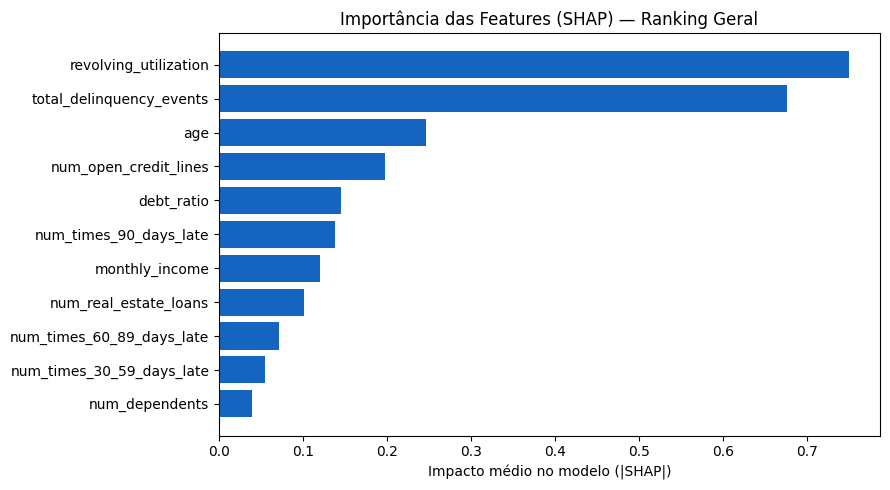
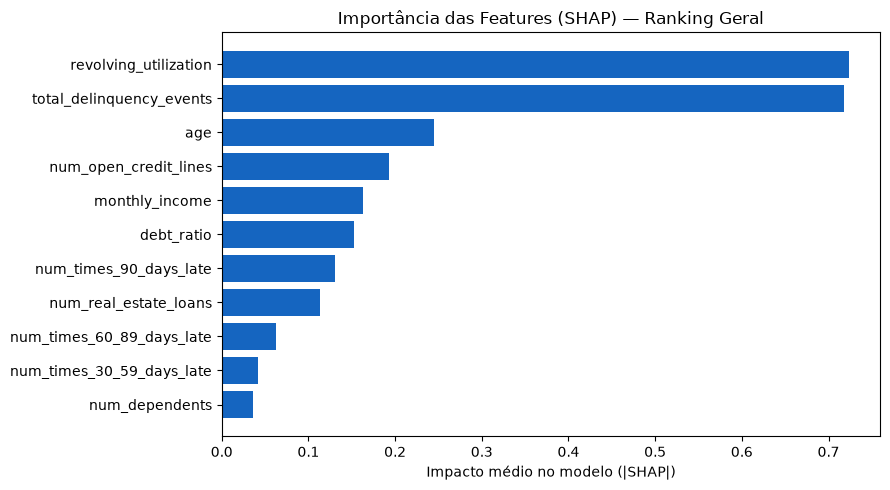
ajustes

diff --git a/README.md b/README.md
@@ -10,26 +10,31 @@
 
 | Indicador | Resultado |
 |---|---|
-| ROC-AUC do modelo principal (XGBoost) | **0,867** (meta ≥ 0,85) — regressão logística: 0,788 |
-| Régua de corte escolhida (threshold) | **0,45** |
-| Taxa de aprovação | 100% → **72,8%** |
-| Inadimplência da carteira aprovada | 6,68% → **1,75%** (queda de ~74%) |
-| Impacto financeiro líquido estimado | **+R$ 14,5 mi** (parâmetros ilustrativos) |
-| Monitoramento pós-deploy | Data drift sobre 101.503 clientes de scoring: 11 de 11 features estáveis (PSI máx. 0,0004). Concept drift: sem falso alarme sem drift e alerta a partir de 25% de intensidade (queda de AUC de 0,054) |
+| ROC-AUC do modelo principal (XGBoost) | **0,866** (meta ≥ 0,85) — regressão logística: 0,790 |
+| Régua de corte (threshold operacional) | **0,45**, a menor inadimplência com pelo menos 70% de aprovação |
+| Taxa de aprovação | 100% → **73,1%** |
+| Inadimplência da carteira aprovada | 6,68% → **1,76%** (queda de ~74%) |
+| Ganho sobre a regressão logística, na mesma aprovação | inadimplência da carteira de **3,08% → 1,76%** |
+| Impacto financeiro | o modelo se paga enquanto um calote custar mais de **4,0x** a margem de um bom cliente (+R$ 18,3 mi com os parâmetros ilustrativos) |
+| Viés por idade | um bom pagador de 18–30 anos é recusado **5,4x** mais que um de 60+ (44,5% contra 8,2%) |
+| Calibração | o score bruto prevê 31,5% de inadimplência média para 6,7% observada; calibrado, 6,7% |
+| Monitoramento | data drift sobre 101.503 clientes de scoring: 11 de 11 features estáveis. Concept drift: sem falso alarme sem mudança e alerta a partir de 25% de intensidade |
 
-**Em uma frase:** o risco é explicado principalmente pelo **comportamento** do cliente (uso do limite e histórico de atrasos), e um corte em 0,45 reduz a inadimplência em ~74% mantendo a aprovação acima do piso de 70%. O peso da idade no modelo exige checagem de viés antes de qualquer uso real.
+**Em uma frase:** o risco é explicado principalmente pelo **comportamento** do cliente (uso do limite e histórico de atrasos), e um corte em 0,45 reduz a inadimplência em ~74% mantendo 73% de aprovação; mas o modelo distribui seus erros de forma desigual entre faixas etárias, e o score precisa ser calibrado antes de ser usado para precificar.
+
+**Um modelo só.** Todos os números deste README vêm do mesmo modelo, o `@champion` (versão 1) registrado no Unity Catalog, avaliado no mesmo conjunto de teste de 37.500 clientes. Os notebooks de validação reproduzem o split de treino e confirmam que ele não mudou: a AUC recalculada precisa ser idêntica à registrada no run de treino, senão a execução é interrompida.
 
 ## Problema de negócio
-Uma instituição financeira precisa decidir, para cada solicitação de crédito, se aprova ou não a operação — e com qual taxa de juros. A decisão precisa ser rápida, consistente entre analistas e defensável em auditoria. O objetivo deste projeto é construir um score de probabilidade de inadimplência que sustente essa decisão de ponta a ponta: da ingestão do dado até um endpoint em produção monitorado.
+Uma instituição financeira precisa decidir, para cada solicitação de crédito, se aprova ou não a operação — e com qual taxa de juros. A decisão precisa ser rápida, consistente entre analistas e defensável em auditoria. O objetivo deste projeto é construir um score de probabilidade de inadimplência que sustente essa decisão de ponta a ponta: da ingestão do dado até a pontuação de clientes novos, com monitoramento.
 
 ## Base de dados
-- **Give Me Some Credit** (Kaggle) — https://www.kaggle.com/c/GiveMeSomeCredit — ~150.000 registros de clientes pessoa física, 10 variáveis explicativas (utilização de crédito rotativo, idade, número de dependentes, histórico de atraso, dívida/renda, entre outras) e variável-alvo `SeriousDlqin2yrs` (1 = inadimplência em 90+ dias nos próximos 2 anos)
-- **SCR.data** (BACEN, dados agregados) — https://dadosabertos.bcb.gov.br/dataset/scr_data — usado como referência externa para comparar a taxa de inadimplência do modelo com a média nacional por segmento, não como dado de treino
+- **Give Me Some Credit** (Kaggle) — https://www.kaggle.com/c/GiveMeSomeCredit — `cs-training.csv` com 150.000 clientes pessoa física, 10 variáveis explicativas e a variável-alvo `SeriousDlqin2yrs` (1 = inadimplência em 90+ dias nos próximos 2 anos); `cs-test.csv` com 101.503 clientes sem rótulo, usado como lote de produção
+- **SCR.data** (BACEN, dados agregados) — https://dadosabertos.bcb.gov.br/dataset/scr_data — referência externa para comparar a taxa de inadimplência do modelo com a média nacional por segmento, não como dado de treino
 
 ## Métrica-alvo
-- **Métrica primária:** AUC-ROC ≥ 0,85 no conjunto de teste (referência de mercado: soluções de topo da competição original Kaggle atingem ~0,86–0,87) — **atingida: 0,867**
-- **Métricas complementares:** KS-statistic (separação entre bons e maus pagadores), recall na classe inadimplente a um nível de precisão definido pelo negócio
-- **Métrica de negócio:** estimativa de redução de inadimplência em R$ comparando a política "com modelo" vs. a política atual (aprovação sem score)
+- **Métrica primária:** AUC-ROC ≥ 0,85 no conjunto de teste (referência de mercado: soluções de topo da competição original atingem ~0,86–0,87) — **atingida: 0,866**
+- **Métricas complementares:** KS-statistic (separação entre bons e maus pagadores) e recall na classe inadimplente a um nível de precisão definido pelo negócio
+- **Métrica de negócio:** redução de inadimplência e impacto em R$ da política "com modelo" contra "aprovar todos" e contra a regressão logística na mesma taxa de aprovação
 
 ## Hipóteses
 
@@ -40,20 +45,20 @@ As quatro hipóteses seguem uma progressão em duas camadas. Não faz sentido de
 
 | Hipótese | Enunciado | Como foi testada | Decisão que sustenta |
 |---|---|---|---|
-| **H1** — Utilização do rotativo | Clientes com maior `revolving_utilization` têm probabilidade significativamente maior de inadimplência, porque uso próximo do limite indica menor folga financeira | Relação entre o valor da feature e seu próprio SHAP value | Confiar ou não no modelo |
+| **H1** — Utilização do rotativo | Clientes com maior `revolving_utilization` têm probabilidade significativamente maior de inadimplência, porque uso próximo do limite indica menor folga financeira | Correlação de Spearman entre o valor da feature e seu próprio SHAP value (critério: > 0,05) | Confiar ou não no modelo |
 | **H2** — Dívida/renda como preditor dominante | `debt_ratio` tem poder preditivo maior que `age` — capacidade de pagamento pesa mais que perfil demográfico | Comparação do \|SHAP\| médio entre `debt_ratio` e `age`, com margem relativa mínima de 10% | Aprovar o modelo em compliance/auditoria |
-| **H3** — Threshold ótimo | Existe um ponto de corte que reduz a inadimplência da carteira aprovada sem derrubar a aprovação abaixo de um piso viável | Varredura de thresholds sobre `y_pred_xgb`, filtrando pelo piso de aprovação (70%, ilustrativo) e escolhendo o de menor inadimplência entre os viáveis | Definir a regra operacional de aprovação |
-| **H4** — Impacto financeiro | O modelo teria evitado mais perdas em R$ do que o custo de rejeitar bons pagadores | Perda evitada (maus rejeitados × custo médio de inadimplência) vs. custo de oportunidade (bons rejeitados × margem média), no threshold de H3 | Aprovar (ou não) o investimento em produção |
+| **H3** — Threshold ótimo | Existe um ponto de corte que reduz a inadimplência da carteira aprovada sem derrubar a aprovação abaixo de um piso viável | Varredura de thresholds, filtrando pelo piso de aprovação (70%, ilustrativo) e escolhendo o de menor inadimplência entre os viáveis | Definir a regra operacional de aprovação |
+| **H4** — Impacto financeiro | O modelo evita mais perdas em R$ do que o custo de rejeitar bons pagadores | Perda evitada (maus recusados × custo médio de inadimplência) vs. custo de oportunidade (bons recusados × margem média), no threshold de H3 | Aprovar (ou não) o investimento em produção |
 
 ## Resultados das hipóteses
 
-Os gráficos abaixo foram gerados no notebook `01_hipoteses_h1_h4`.
+Gráficos gerados no notebook `01_hipoteses_h1_h4`.
 
 ### Importância das variáveis (ranking SHAP)
 
 ![Ranking SHAP](imagens/00_ranking_shap.png)
 
-Duas variáveis dominam com folga: **uso do crédito rotativo** (|SHAP| médio 0,75) e **total de eventos de atraso** (0,68). Depois vem um degrau grande: idade (0,25), número de linhas de crédito abertas (0,20) e dívida/renda (0,15).
+Duas variáveis dominam, praticamente empatadas: **uso do crédito rotativo** (|SHAP| médio 0,72) e **total de eventos de atraso** (0,72). Depois vem um degrau grande: idade (0,24), número de linhas de crédito abertas (0,19), renda (0,16) e dívida/renda (0,15).
 
 **Leitura:** o risco é explicado principalmente pelo comportamento (como o cliente usa o crédito e se já atrasou), e não pelo perfil (renda, dependentes, imóveis).
 
@@ -63,34 +68,34 @@ Duas variáveis dominam com folga: **uso do crédito rotativo** (|SHAP| médio 0
 
 ![H1](imagens/h1_rotativo_shap.png)
 
-Cada ponto é um cliente: eixo horizontal = fração do limite utilizada; eixo vertical = contribuição SHAP para o risco. A relação é praticamente uma escada subindo: uso perto de 0% reduz o risco, por volta de **35–40%** a variável passa a prejudicar e perto de **100% (limite estourado)** o risco dispara.
+Cada ponto é um cliente: eixo horizontal = fração do limite utilizada; eixo vertical = contribuição SHAP para o risco. A relação é uma escada subindo, com **correlação de Spearman de 0,879**: uso perto de 0% reduz o risco, por volta de **35–40%** a variável passa a prejudicar e perto de **100% (limite estourado)** o risco dispara.
 
-**Implicação:** o uso do limite é o alerta mais forte do modelo e pode virar regra operacional — monitorar clientes da carteira que cruzam ~40% e ~90% de uso.
+**Implicação:** o uso do limite é um dos dois alertas mais fortes do modelo e pode virar regra operacional — monitorar clientes da carteira que cruzam ~40% e ~90% de uso.
 
-> **Nota metodológica:** a correlação de Pearson exibida no gráfico (0,071) subestima a relação, porque é distorcida por outliers extremos (há clientes com utilização na casa dos milhares, cortados pelo `xlim` em 2,0). A correlação de Spearman, ou o cálculo restrito ao intervalo 0–1, representa melhor a relação monotônica visível no gráfico.
+> **Nota metodológica:** a primeira versão do teste usava a correlação de Pearson, que é distorcida pelos outliers extremos de utilização (clientes com valores na casa dos milhares, cortados do gráfico). O resultado oscilava em torno do próprio critério: 0,071 numa execução, 0,047 em outra, com a H1 passando e falhando sem nenhuma mudança real. A limitação já estava documentada antes da troca. A Spearman mede a relação crescente pela ordenação dos valores e não é afetada pelos outliers; um teste unitário (`tests/test_hypothesis_validation.py`) reproduz o problema e garante que ele não volte.
 
 ### H2 — Dívida/renda vs. idade ❌ Contrariada
 
 ![H2](imagens/h2_debt_ratio_vs_age.png)
 
-A hipótese era que dívida/renda superaria idade. Deu o contrário: idade (|SHAP| 0,246) pesa **41% a mais** que dívida/renda (0,145).
+A hipótese era que dívida/renda superaria idade. Deu o contrário: o |SHAP| médio de dívida/renda (0,153) fica **37% abaixo** do de idade (0,245); a idade pesa cerca de 1,6 vez mais.
 
 **Implicações:**
 1. **Negócio:** vale mais olhar *como* o cliente usa o crédito (H1) do que o índice de endividamento declarado — renda autodeclarada costuma ser pouco confiável.
-2. **Risco regulatório:** o peso da idade pode gerar tratamento desigual por faixa etária. Isso será verificado no notebook 02 (viés por idade/renda) antes de qualquer uso real.
+2. **Risco regulatório:** o peso da idade pode gerar tratamento desigual por faixa etária. A análise de viés abaixo confirma que isso acontece.
 
 ### H3 — Aprovação vs. inadimplência por threshold ✅ Confirmada
 
 ![H3](imagens/h3_threshold.png)
 
-Linha azul: % de aprovados (eixo esquerdo). Linha vermelha: % de inadimplentes entre os aprovados (eixo direito). Tracejado cinza: piso de aprovação (70%). Pontilhado vermelho: inadimplência sem modelo (6,68%). Linha verde: régua escolhida.
-
 | | Sem modelo | Com modelo (threshold 0,45) |
 |---|---|---|
-| Taxa de aprovação | 100% | 72,8% |
-| Inadimplência da carteira | 6,68% | **1,75%** |
+| Taxa de aprovação | 100% | 73,1% |
+| Inadimplência da carteira | 6,68% | **1,76%** |
 
-**Implicação:** recusando ~27% dos pedidos, a inadimplência cai ~74%. O threshold funciona como botão de estratégia: subir a régua favorece crescimento com mais risco; descer protege caixa. O gráfico mostra o preço de cada escolha.
+**Implicação:** recusando ~27% dos pedidos, a inadimplência cai ~74%. O threshold funciona como botão de estratégia: subir a régua favorece crescimento com mais risco; descer protege caixa.
+
+> O 0,45 é uma nota do modelo, não uma probabilidade de 45%: o score bruto é descalibrado (ver calibração abaixo). A ordenação dos clientes, e portanto a decisão, não depende disso.
 
 ### H4 — Impacto financeiro líquido ✅ Confirmada
 
@@ -98,48 +103,101 @@ Linha azul: % de aprovados (eixo esquerdo). Linha vermelha: % de inadimplentes e
 
 | Componente | Cálculo | Valor |
 |---|---|---|
-| Perda evitada | 1.622 maus pagadores recusados × ~R$ 15 mil | +R$ 24,3 mi |
-| Custo de oportunidade | 6.538 bons pagadores recusados × ~R$ 1,5 mil | –R$ 9,8 mi |
-| **Impacto líquido** | | **+R$ 14,5 mi** |
+| Perda evitada | 2.023 maus pagadores recusados × R$ 15 mil | +R$ 30,3 mi |
+| Custo de oportunidade | 8.052 bons pagadores recusados × R$ 1,5 mil | –R$ 12,1 mi |
+| **Impacto líquido** | | **+R$ 18,3 mi** |
 
 **Implicação:** de cada 5 clientes recusados, só 1 era de fato mau pagador. Mesmo assim o modelo compensa, porque um calote custa ~10 vezes a margem de um bom cliente.
 
-> **Ressalva:** perda e margem são **parâmetros ilustrativos** (`business_params.py`). O valor só vira argumento de investimento com dados financeiros reais; se a razão perda/margem for bem menor que 10:1, o resultado pode encolher bastante.
+**Ponto de equilíbrio:** o modelo se paga sempre que a perda por calote for maior que **4,0 vezes** a margem de um bom cliente (8.052 ÷ 2.023). Essa conclusão não depende dos valores ilustrativos de `business_params.py`: o negócio pode checá-la com os próprios números de perda e margem.
 
 ### Resumo por hipótese
 
 | Hipótese | Conclusão | Status |
 |---|---|---|
-| H1 | O uso do limite é o principal alarme de risco | ✅ Confirmada |
-| H2 | Dívida/renda importa menos que o esperado; o peso da idade precisa de checagem de viés | ❌ Contrariada |
+| H1 | O uso do limite é um dos dois principais alarmes de risco (Spearman 0,879) | ✅ Confirmada |
+| H2 | Dívida/renda importa menos que idade; o peso da idade gera viés mensurável | ❌ Contrariada |
 | H3 | Dá para cortar a inadimplência em ~74% aprovando ~73% dos pedidos | ✅ Confirmada |
-| H4 | O modelo se paga, com a ressalva de que os valores em reais são simulados | ✅ Confirmada |
+| H4 | O modelo se paga enquanto um calote custar mais de 4x a margem de um bom cliente | ✅ Confirmada |
+
+## Viés, calibração e comparação
+
+Gráficos e tabelas do notebook `02_vies_threshold_roi`, no mesmo modelo, teste e threshold operacional das hipóteses.
+
+### Threshold de custo mínimo vs. operacional
+
+![Custo por threshold](imagens/q2_threshold_custo.png)
+
+Minimizando só o custo esperado, o melhor corte seria **0,57**, com 81,5% de aprovação. O threshold operacional (0,45) aprova menos e custa **R$ 484,5 mil a mais** no teste. Esse é o preço da restrição escolhida em H3, e a decisão entre os dois é de negócio: 0,45 prioriza inadimplência baixa na carteira; 0,57, o menor custo total.
+
+### Viés por idade e renda
+
+![Bons pagadores negados por grupo](imagens/q3_vies_bons_negados.png)
+
+| Faixa etária | Clientes | Inadimplência real | Aprovação | Bons pagadores negados (IC 95%) |
+|---|---|---|---|---|
+| 18–30 | 2.676 | 12,0% | 50,1% | **44,5%** (42,5–46,5%) |
+| 31–40 | 5.985 | 9,5% | 58,9% | 36,5% (35,2–37,7%) |
+| 41–50 | 8.745 | 8,5% | 65,8% | 29,6% (28,6–30,6%) |
+| 51–60 | 8.931 | 6,3% | 75,3% | 21,2% (20,4–22,1%) |
+| 60+ | 11.163 | 2,8% | 90,3% | **8,2%** (7,7–8,7%) |
+
+Duas métricas guiam a leitura:
+
+- **Razão de aprovação (regra dos 4/5):** as faixas de 18 a 50 anos ficam abaixo de 0,80 da aprovação da faixa 60+. Parte disso reflete risco real: a inadimplência dos jovens é mais de 4 vezes maior.
+- **Bons pagadores negados:** mede quem paga pelo erro do modelo. Um **bom pagador de 18–30 anos tem 5,4 vezes mais chance de ser recusado** que um de 60+, com intervalos de confiança que não se sobrepõem. No sentido oposto, o modelo aprova 37% dos maus pagadores acima de 60 anos, contra 10% entre os jovens.
+
+Na renda, o padrão é o mesmo, mais leve: 32,8% de bons pagadores negados no quintil de menor renda, contra 17,7% no maior. Os clientes que não informaram renda (~20% da base) formam um grupo próprio e são os mais aprovados (81,5%), com inadimplência real também baixa (5,4%).
+
+**Por que isso não se resolve só com técnica.** Quando dois grupos têm taxas reais de inadimplência muito diferentes, nenhum score consegue ser ao mesmo tempo bem calibrado e ter a mesma taxa de bons pagadores negados nos dois grupos (Kleinberg et al., 2016; Chouldechova, 2017). Reduzir a diferença exige escolher qual critério de justiça priorizar, e esse critério precisa ser definido com as áreas de risco, jurídico e compliance antes de qualquer uso real do modelo.
+
+### Calibração
+
+![Curva de calibração](imagens/q3b_calibracao.png)
+
+| | Inadimplência média prevista | Brier | Erro médio de calibração |
+|---|---|---|---|
+| Score bruto | 31,5% | 0,141 | 0,248 |
+| Calibrado (isotônica) | 6,7% | 0,050 | 0,007 |
+| Observada | 6,7% | | |
+
+O modelo foi treinado com `scale_pos_weight` para compensar o desbalanceamento, o que infla as probabilidades: ele prevê em média 31,5% de inadimplência para uma base com 6,7%. Para aprovar ou negar, isso não importa, porque só a ordenação conta. **Para precificar juros por risco, só o score calibrado serve.** A calibração isotônica foi ajustada em metade do teste e avaliada na outra metade; por ser monotônica, não muda a ordenação dos clientes.
+
+### XGBoost vs. regressão logística na mesma taxa de aprovação
+
+| Modelo | AUC | Inadimplência da carteira aprovada | Maus recusados | Bons recusados |
+|---|---|---|---|---|
+| XGBoost (`@champion`) | 0,866 | **1,76%** | 2.023 | 8.052 |
+| Regressão logística | 0,790 | 3,08% | 1.662 | 8.413 |
+
+Aprovando os mesmos 73,1% dos pedidos, o XGBoost recusa **361 maus pagadores a mais** e **361 bons pagadores a menos**, e a inadimplência da carteira cai de 3,08% para 1,76%. É a comparação que interessa ao negócio: não contra "aprovar todo mundo", política que nenhuma instituição usa, mas contra um modelo mais simples e mais fácil de explicar.
 
 ## Perguntas de investigação
-1. **Quais variáveis têm maior poder preditivo?** → respondida no ranking SHAP e em H1/H2.
-2. **Existe um threshold que equilibra aprovação e inadimplência?** → respondida em H3 (0,45).
-3. **O modelo mantém performance estável entre faixas de renda e idade?** → *em andamento* (notebook 02). Uma execução exploratória anterior sinalizou taxa elevada de bons pagadores negados na faixa 18–30 anos e de maus pagadores aprovados nas faixas 60+ e de renda mais alta; a análise será refeita com o threshold 0,45.
-4. **Qual o impacto financeiro estimado?** → respondida em H4 (+R$ 14,5 mi, ilustrativo).
+1. **Quais variáveis têm maior poder preditivo?** → ranking SHAP, H1 e H2.
+2. **Existe um threshold que equilibra aprovação e inadimplência?** → H3 (0,45) e a comparação com o threshold de custo mínimo (0,57).
+3. **O modelo trata faixas de renda e idade de forma equivalente?** → não: bons pagadores jovens e de menor renda são recusados com frequência bem maior (seção de viés).
+4. **Qual o impacto financeiro estimado?** → H4: ponto de equilíbrio de 4,0x (+R$ 18,3 mi com os parâmetros ilustrativos).
 
 ## Modelo
-- **Modelo principal:** Gradient Boosting (XGBoost) — dado tabular, alvo binário desbalanceado (~6,7% de positivos) e necessidade de capturar interações não lineares entre variáveis financeiras
-- **Modelo de comparação (baseline interpretável):** Regressão Logística — benchmark de interpretabilidade e piso de performance (ROC-AUC 0,788 vs. 0,867 do XGBoost)
-- **Explicabilidade:** SHAP obrigatório para o modelo principal — cada decisão de aprovação/negação precisa ser rastreável até as variáveis que mais pesaram
-- **Tratamento do desbalanceamento:** class weighting ou SMOTE, com decisão documentada de qual técnica foi usada e por quê
+- **Modelo principal:** XGBoost — dado tabular, alvo binário desbalanceado (6,68% de positivos) e interações não lineares entre variáveis financeiras. Registrado no Unity Catalog como `credito_risco_xgb`, versão 1, alias `@champion`
+- **Baseline interpretável:** regressão logística com imputação pela mediana, padronização e `class_weight="balanced"` (AUC 0,790)
+- **Desbalanceamento:** `scale_pos_weight` no XGBoost e `class_weight="balanced"` na logística. Efeito colateral documentado: probabilidades infladas, corrigidas pela calibração
+- **Explicabilidade:** SHAP no modelo principal — cada decisão pode ser rastreada até as variáveis que mais pesaram
+- **Split único e verificado:** 25% de teste, seed 42, estratificado, definido em `src/models/hypothesis_validation.py` e usado pelos dois notebooks de validação
 
 ## Arquitetura no Databricks (pipeline ponta a ponta)
-1. **Bronze** — ingestão via Autoloader do CSV bruto
-2. **Silver** — tratamento de outliers (ex.: idade = 0, utilização de crédito > 10), imputação de nulos, padronização de schema
-3. **Gold / Feature Store** — feature table versionada, pronta para treino
-4. **Treino** — MLflow tracking de experimentos, comparação XGBoost vs. Regressão Logística
-5. **Registro** — MLflow Model Registry no Unity Catalog (`credito_risco_xgb`), com o modelo vencedor promovido pelo alias `@champion`
-6. **Produção** — inferência batch (`03_inferencia_batch.py`) pontuando o lote de scoring (`cs-test.csv`, ~101 mil clientes sem rótulo), que passa pelas mesmas camadas Bronze → Silver → Gold do treino
-7. **Monitoramento** — notebooks de data drift e concept drift, com métricas no MLflow e histórico em tabelas Delta (detalhes abaixo)
-8. **Governança** — Unity Catalog com RBAC controlando quem acessa a feature table e o endpoint
+1. **Bronze** — ingestão incremental via Auto Loader, com tabelas separadas para treino (`cs-training.csv`) e scoring (`cs-test.csv`)
+2. **Silver** — padronização de nomes e tipos e regras de qualidade por quarentena lógica (idade fora de 18–120 e códigos de erro nos atrasos são marcados, não descartados), com MERGE idempotente
+3. **Gold** — modelo estrela (`dim_customer` + `fct_credit_profile`) com treino e scoring na mesma tabela (alvo nulo = lote novo), deslocamento de IDs do scoring e checagem de unicidade
+4. **Treino e registro** — XGBoost registrado no Unity Catalog com a AUC de teste logada no MLflow; o alias `@champion` aponta para a versão em produção
+5. **Validação** — hipóteses, viés, calibração e comparação com a logística no `@champion`, com checagem de que o split de teste é o mesmo do treino
+6. **Produção** — inferência batch (`03_inferencia_batch.py`) pontuando o lote de scoring (101.503 clientes) com o threshold operacional
+7. **Monitoramento** — data drift e concept drift, com métricas no MLflow e histórico em tabelas Delta (detalhes abaixo)
+8. **Governança** — Unity Catalog controlando acesso às tabelas e ao modelo registrado
 
 ## Monitoramento pós-deploy
 
-O monitoramento responde a duas perguntas diferentes, tratadas em notebooks separados em `notebooks/monitoracao/`. A lógica de cálculo fica em `src/monitoring/`, em numpy/pandas puro, e é coberta por testes unitários (`tests/test_data_drift.py` e `tests/test_concept_drift.py`) que rodam sem cluster.
+O monitoramento responde a duas perguntas diferentes, tratadas em notebooks separados em `notebooks/monitoracao/`. A lógica de cálculo fica em `src/monitoring/`, em numpy/pandas puro, e é coberta por testes unitários (`tests/test_data_drift.py`, `tests/test_concept_drift.py` e `tests/test_concept_drift_intensidade.py`) que rodam sem cluster.
 
 | | Data drift | Concept drift |
 |---|---|---|
@@ -185,7 +243,6 @@ Referência: 150.000 clientes de treino. Lote avaliado: 101.503 clientes de scor
 
 O `@champion` (versão 1) foi avaliado em uma referência sintética sem drift (AUC-ROC 0,809) e em seis lotes com intensidades crescentes de drift, 20.000 clientes cada.
 
-<!-- ![Ranking SHAP](imagens/00_ranking_shap.png) -->
 ![Curva de sensibilidade do monitor de concept drift](imagens/concept_drift_sensibilidade.png)
 
 | Intensidade | AUC-ROC do lote | Queda | Alerta |
@@ -204,17 +261,20 @@ O `@champion` (versão 1) foi avaliado em uma referência sintética sem drift (
 ## Limitações assumidas
 - O dado é de 2011 e de clientes americanos — usado como base metodológica, não como fonte de verdade sobre o mercado brasileiro; o cruzamento com o SCR.data contextualiza essa diferença, não a corrige
 - A variável-alvo tem 24 meses de horizonte; decisões de crédito com prazo diferente exigiriam reavaliação do problema
-- Custo de inadimplência, margem e piso de aprovação são parâmetros ilustrativos
-- O peso relevante de `age` no modelo exige análise de viés antes de qualquer uso em decisão real
+- Custo de inadimplência, margem e piso de aprovação são parâmetros ilustrativos; o ponto de equilíbrio (4,0x) é a conclusão que não depende deles
+- O modelo distribui erros de forma desigual por idade e renda (seção de viés); nenhum uso em decisão real antes de um critério de justiça definido com risco, jurídico e compliance
+- O score bruto não é uma probabilidade; qualquer uso para precificação exige a versão calibrada
 - O concept drift só pode ser medido de verdade com rótulos realizados, que chegam com cerca de 24 meses de atraso; até lá, o monitoramento de performance é validado apenas em simulação e o data drift funciona como alerta antecipado
 
 ## Próximos passos
-- [ ] Concluir o notebook 02 (viés por idade e renda) com o threshold 0,45 e avaliar thresholds por segmento
-- [ ] Trocar Pearson por Spearman no teste de H1
-- [ ] Investigar a concentração de valores repetidos em `monthly_income` na camada Silver
+- [ ] Treinar uma versão sem a variável idade e medir o trade-off entre AUC e taxa de bons pagadores negados por faixa (variáveis como número de linhas de crédito podem carregar informação de idade indiretamente)
+- [ ] Definir, com risco, jurídico e compliance, o critério de justiça aceitável e avaliar thresholds por segmento
+- [ ] Registrar o calibrador junto com o modelo e gravar a probabilidade calibrada na inferência batch
+- [ ] Centralizar o threshold operacional em `src/config/business_params.py`, usado pela validação e pela inferência
 - [ ] Tratar features de contagem com muitos zeros no cálculo do PSI (bins por valor distinto em vez de decis) — limitação confirmada na execução real
 - [ ] Criar a tabela `resultados_realizados` para ativar o modo real do concept drift
+- [ ] Investigar a concentração de valores repetidos em `monthly_income` na camada Silver
 - [ ] Avaliar Model Serving para scoring em tempo real, complementando a inferência batch
 
 ## Status
-Em andamento — ingestão (treino e scoring), treino, validação das hipóteses H1–H4, registro do `@champion`, inferência batch, data drift e concept drift (simulado) executados; análise de viés e modo real do concept drift (depende de rótulos realizados) pendentes.
+Ingestão (treino e scoring), registro do `@champion`, validação das hipóteses, análise de viés, calibração, comparação com a logística, inferência batch e monitoramento (data drift e concept drift simulado) executados. Pendentes: mitigação do viés, calibração em produção e modo real do concept drift.
